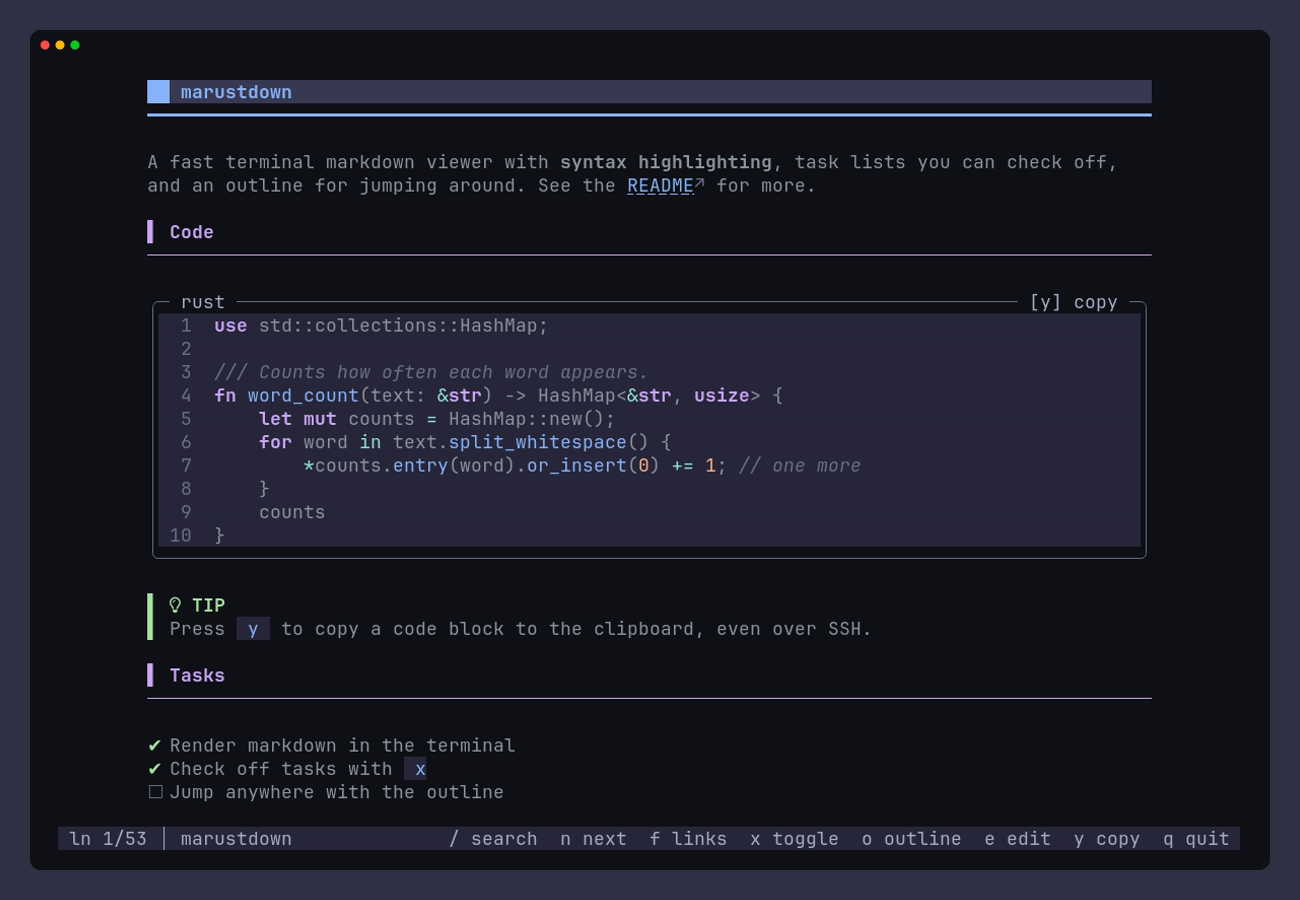
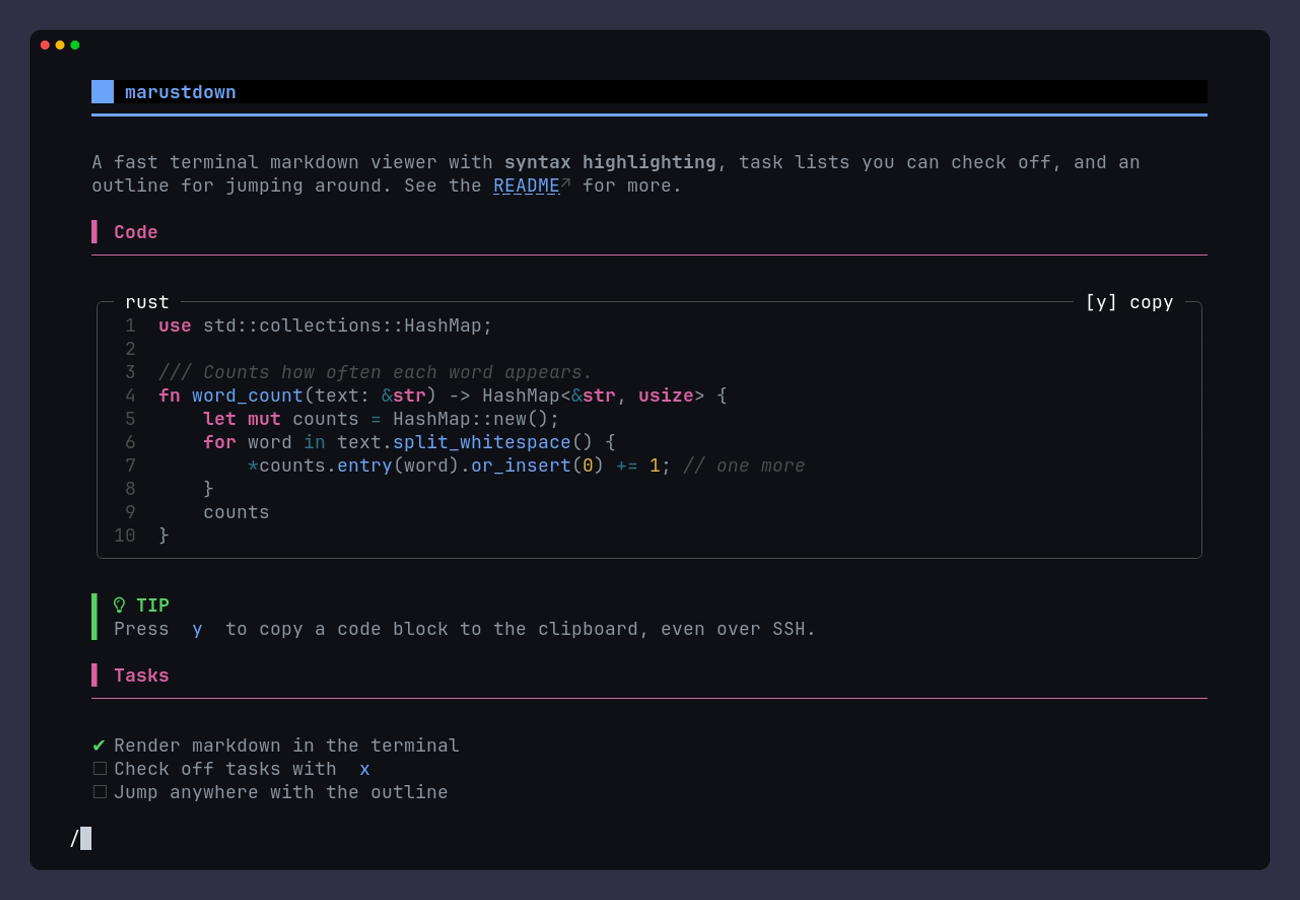
feat: default to the ansi theme
Use the terminal's own 16 colors unless a theme is configured, so
marustdown matches the user's terminal color scheme out of the box.
The default preset is now read from assets/config.toml instead of
being hard-coded, and the README screenshots are regenerated.

diff --git a/src/config.rs b/src/config.rs
@@ -271,14 +271,13 @@ fn build(user: Option<Table>, dir: Option<&Path>, overrides: &Overrides) -> Resu
     };
     let icons = !overrides.no_icons && enabled("icons");
     let color = !overrides.no_color && enabled("color");
+    let mut merged = parse(DEFAULT);
     let theme = match (overrides.theme, setting(None, "theme")) {
         (Some(t), _) => t.to_owned(),
         (None, Some(Value::String(s))) => s,
         (None, Some(_)) => return Err("theme: expected a string".into()),
-        (None, None) => "dark".into(),
+        (None, None) => merged["theme"].as_str().expect("built-in theme").to_owned(),
     };
-
-    let mut merged = parse(DEFAULT);
     merge(&mut merged, preset(&theme, dir)?);
     if !icons {
         merge(&mut merged, parse(ASCII));
@@ -346,7 +345,7 @@ mod tests {
     fn defaults_parse() {
         let cfg = defaults();
         assert_eq!(cfg.layout.width, 90);
-        assert!(cfg.colors.contains_key("accent"));
+        assert_eq!(cfg.colors["accent"], ColorValue::Index(4));
     }
 
     #[test]

diff --git a/src/theme.rs b/src/theme.rs
@@ -236,7 +236,7 @@ mod tests {
     fn resolves_palette() {
         let t = test_theme();
         assert_eq!(t.paint(0), None);
-        assert_eq!(t.paint(t.styles.h1.fg), Some(Paint::Rgb(0x89, 0xb4, 0xfa)));
+        assert_eq!(t.paint(t.styles.h1.fg), Some(Paint::Indexed(4)));
         assert_eq!(parse_hex("#fff"), Some(Paint::Rgb(255, 255, 255)));
         assert_eq!(parse_hex("#12345"), None);
     }

diff --git a/docs/configuration.md b/docs/configuration.md
@@ -27,14 +27,14 @@ toggle = ["space"]
 ## Theme
 
 ```toml
-theme = "dark"
+theme = "ansi"
 ```
 
 | Value | Colors |
 |---|---|
-| `dark` | Catppuccin Mocha (default) |
+| `ansi` | Your terminal's 16 colors (default) |
+| `dark` | Catppuccin Mocha |
 | `light` | Catppuccin Latte |
-| `ansi` | Your terminal's 16 colors |
 | `<name>` | `~/.config/marustdown/themes/<name>.toml` |
 
 A theme file holds a `[colors]` table and may override any other table.
